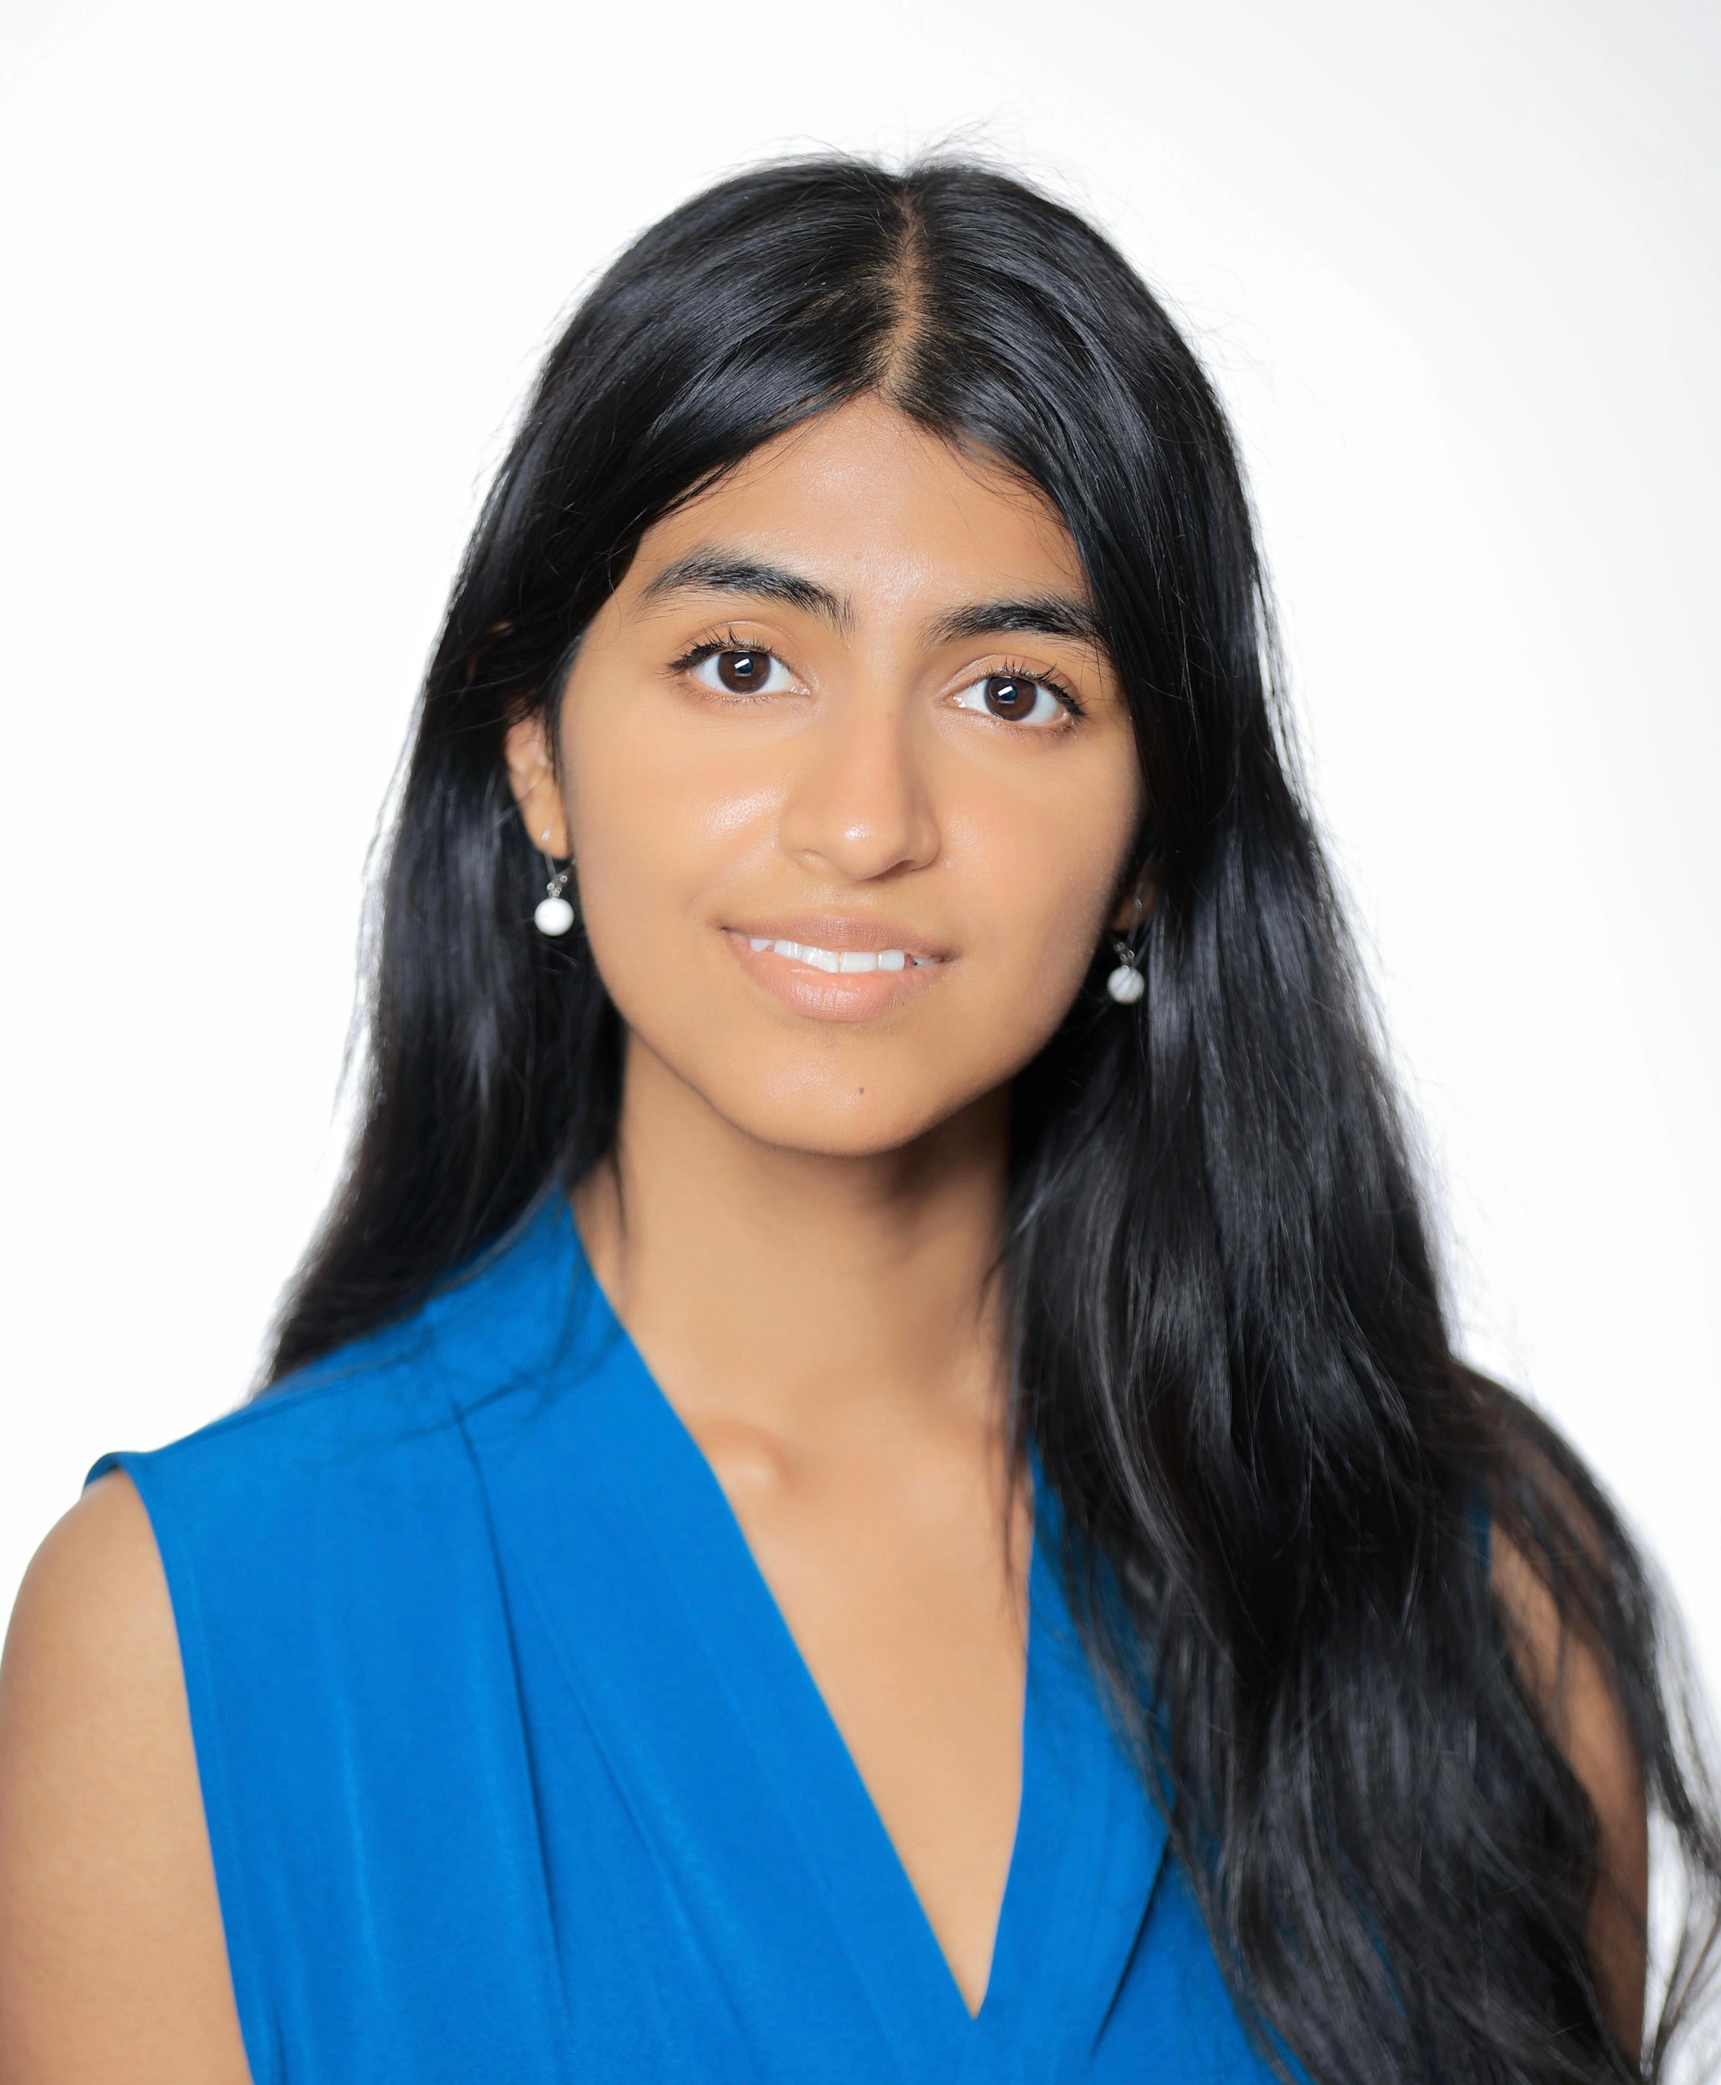
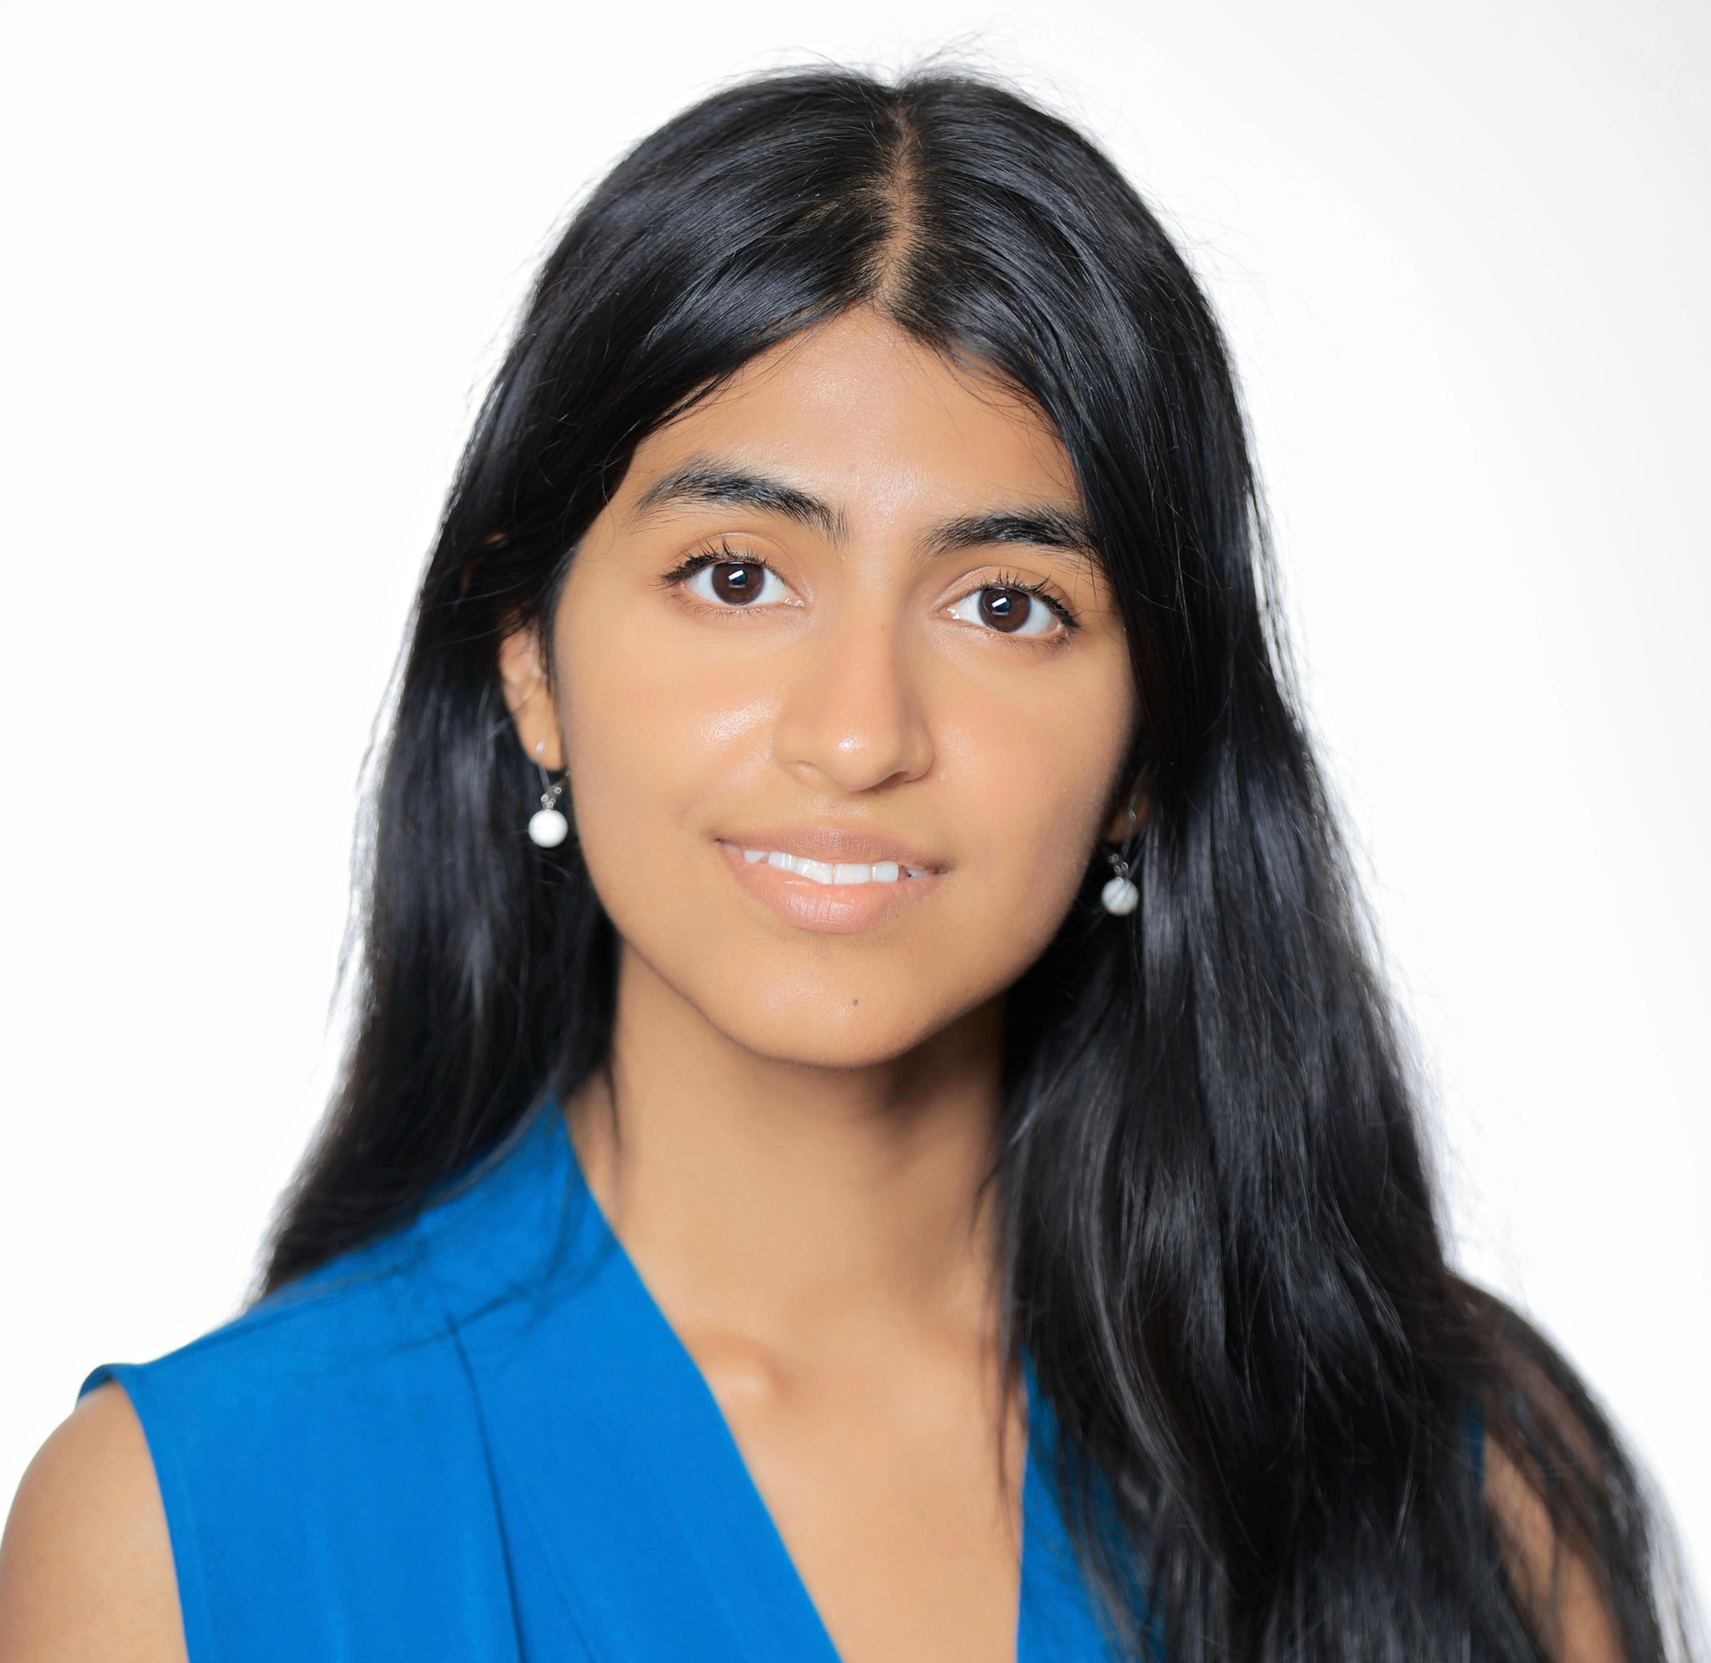
fix image stretch

diff --git a/src/sections/Leadership.jsx b/src/sections/Leadership.jsx
@@ -23,7 +23,7 @@ function Leadership() {
         <LeadershipCard img={ian} name="Ian Sornson" position="Software" link="https://www.linkedin.com/in/ian-sornson/"  secretText = "thanks for the car"/>
         <LeadershipCard img={Su} name="Chris Suarez" position="Software" link="https://www.linkedin.com/in/christopher-suarez-44021a243/" secretText="Web-dev"/>
         <LeadershipCard img={julie} name="Julie Lima" position="Software" link="https://www.linkedin.com/in/julielima/" secretText="yapper"/>
-        <LeadershipCard img={vani} name="James Xu" position="Software" link=" https://www.linkedin.com/in/vani-ramesh/" secretText=""/>
+        <LeadershipCard img={vani} name="Vani Ramesh" position="Software" link=" https://www.linkedin.com/in/vani-ramesh/" secretText=""/>
         {/* <div className='hidden lg:block'></div> */}
         <LeadershipCard img={eric} name="Eric Zhu" position="Trading" link="https://www.linkedin.com/in/zhueric2004/" secretText= "darius"/>
         <LeadershipCard img={john} name="John Zammit" position="Trading" link="https://www.linkedin.com/in/johnchristopherzammit/"  secretText = "64 bit"/>
